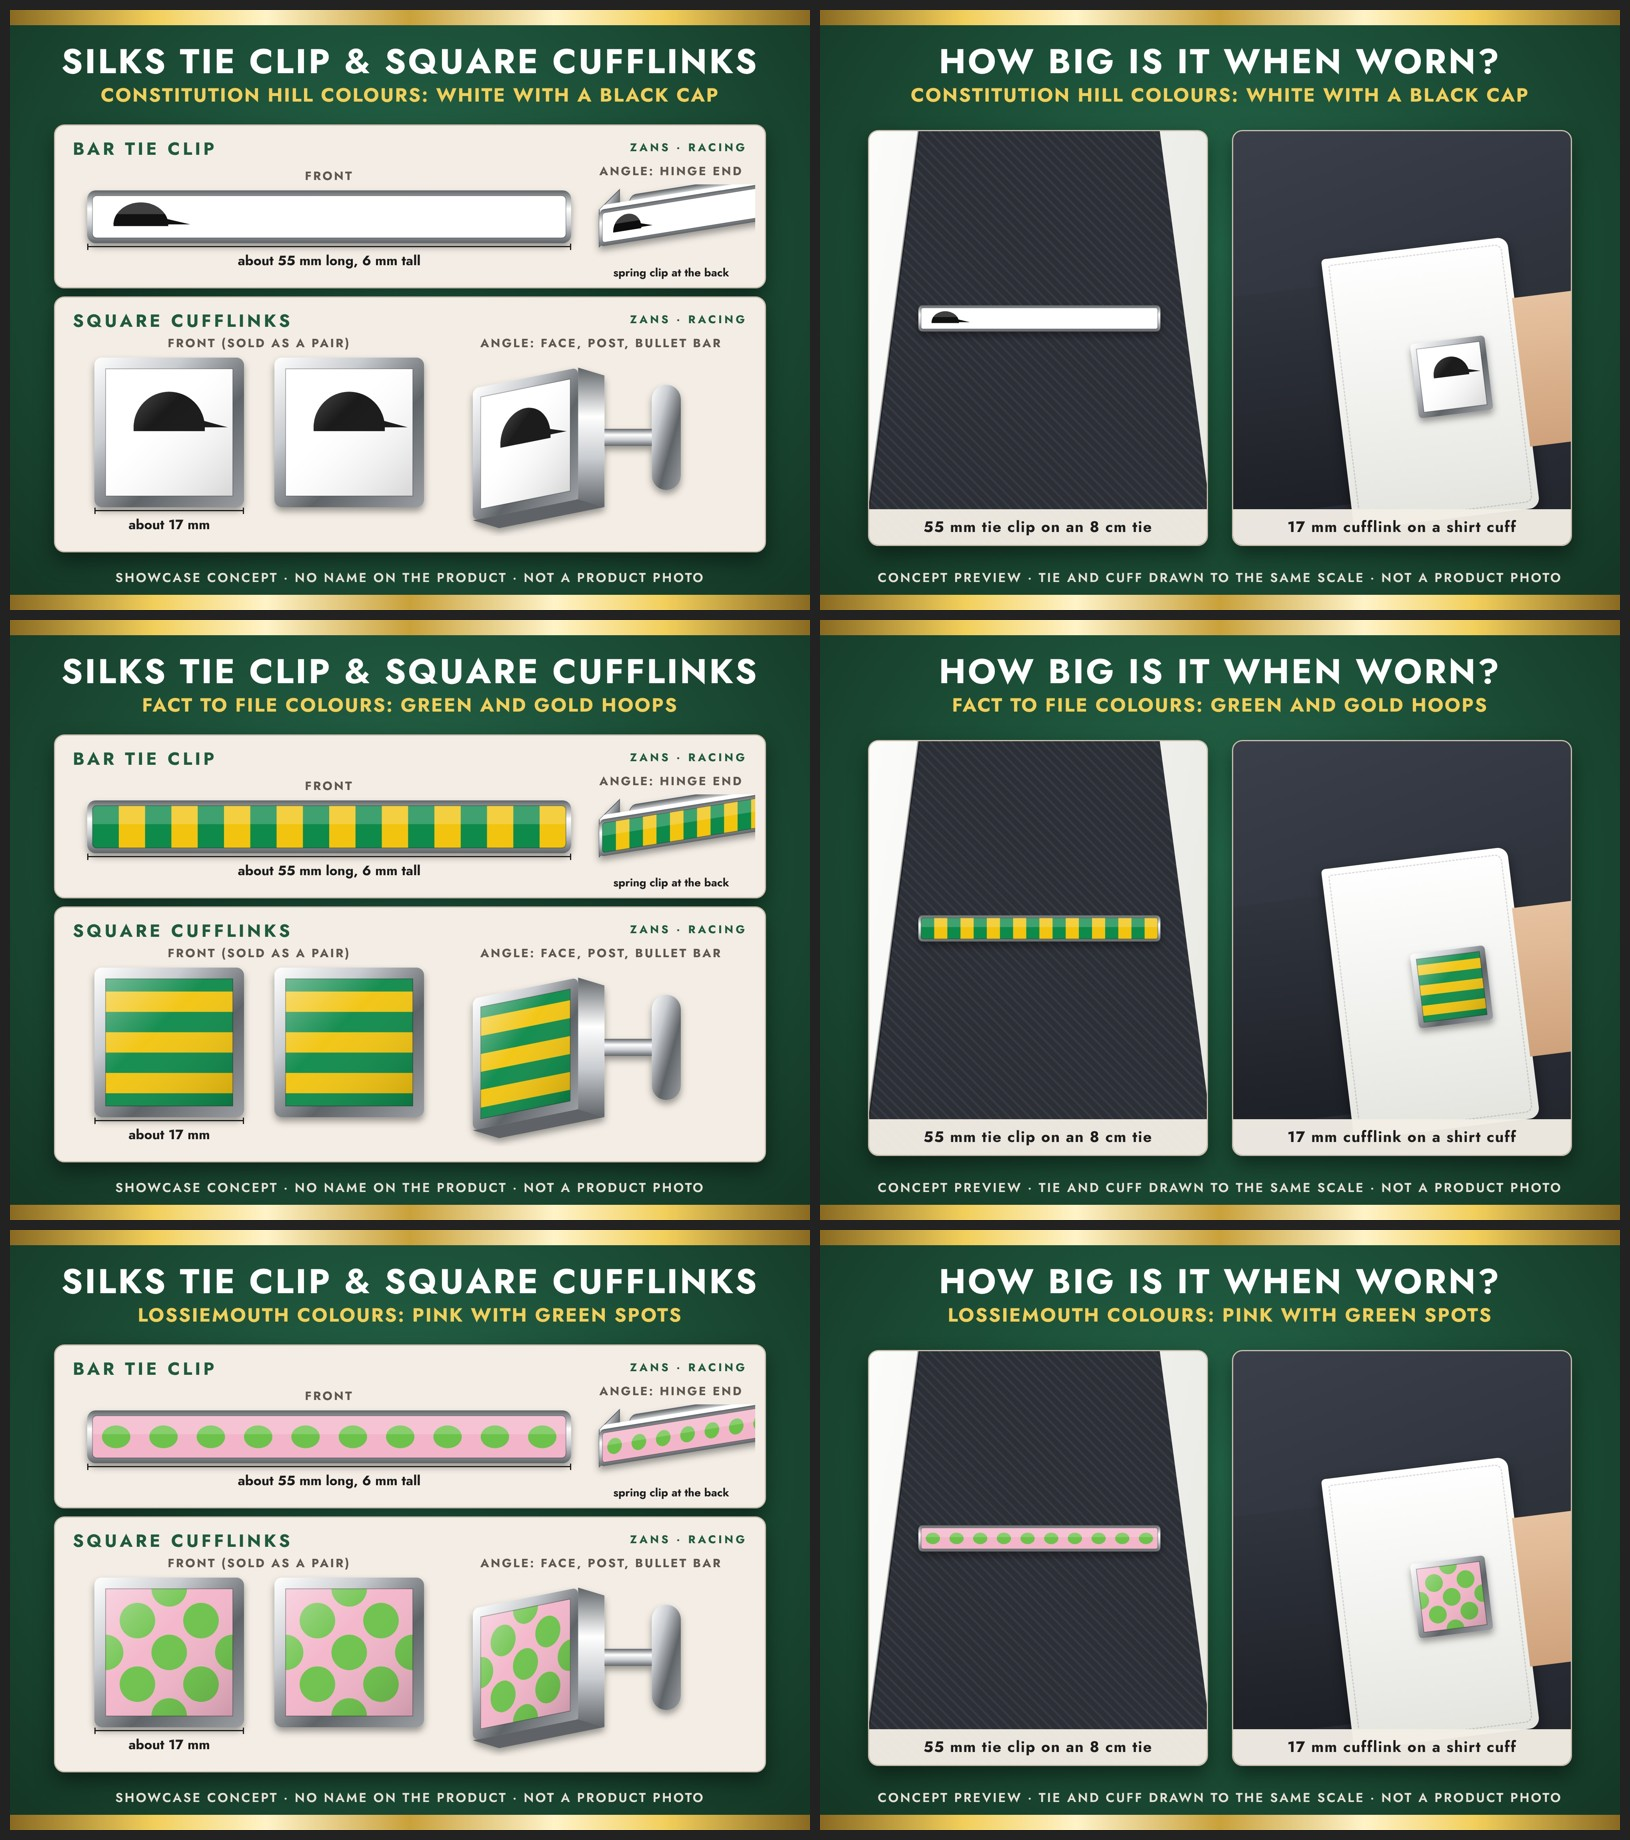
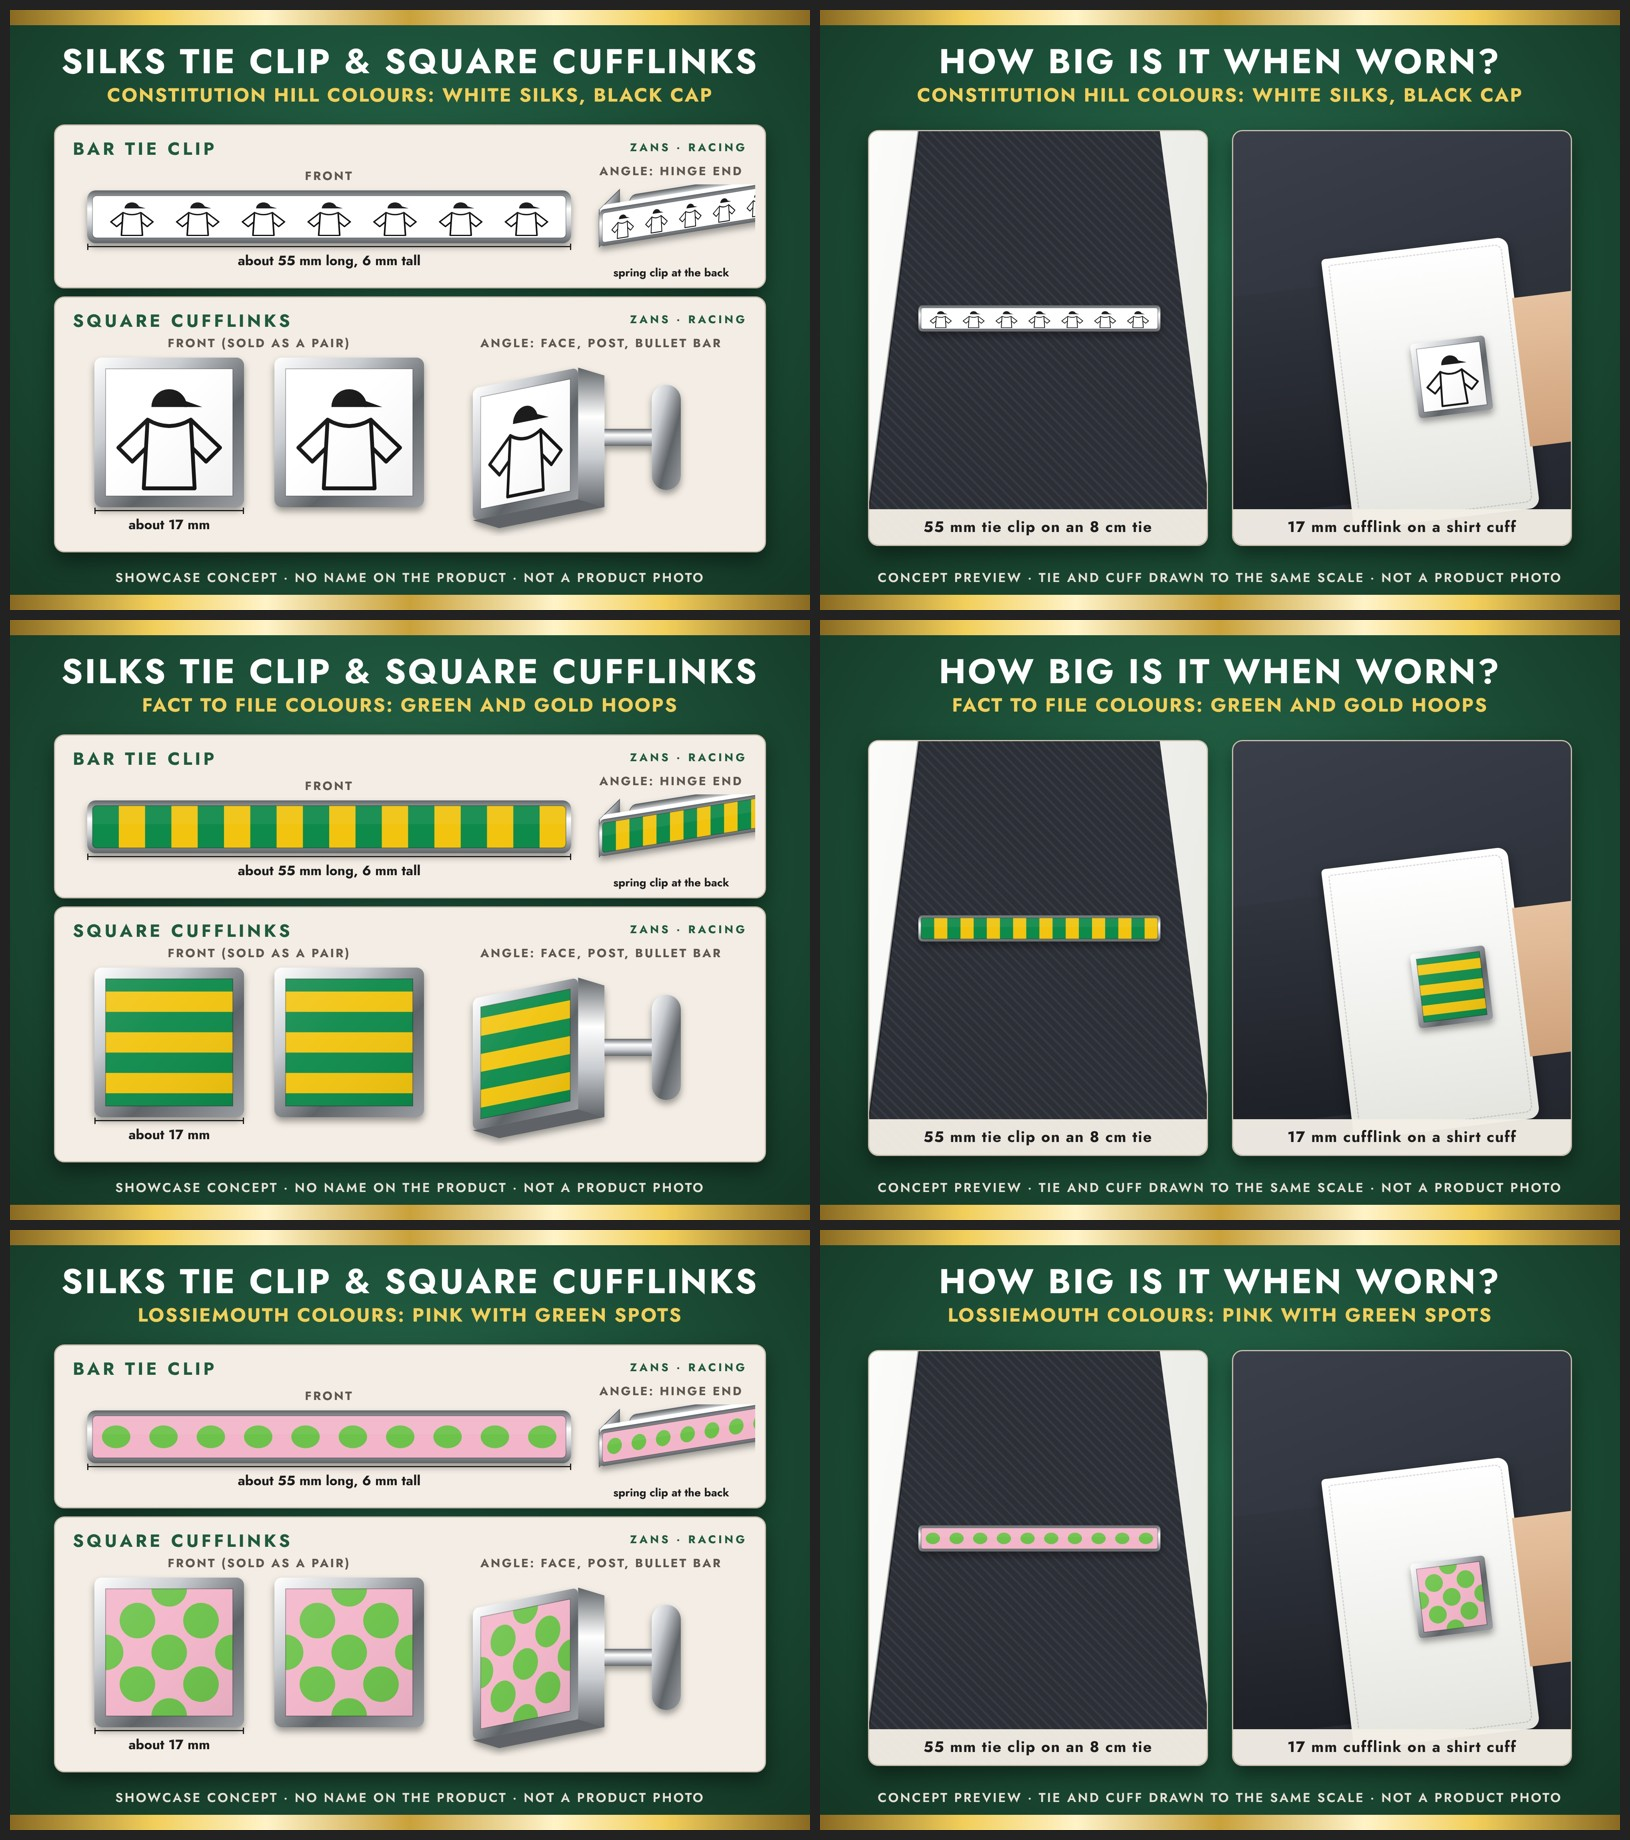
Named-horse tie clips and cufflinks v4: Constitution Hill jersey-and-cap motif, flatter gloss, sources
Claude-Session: https://claude.ai/code/session_012o9aG5DgvmXWZHsMc4KE4d

diff --git a/batch/2026-11-25/tie-pins-cufflinks/build_named.js b/batch/2026-11-25/tie-pins-cufflinks/build_named.js
@@ -12,7 +12,7 @@ const sq = { // square insert, 100 x 100
   diamonds: (a, b) => `<rect width="100" height="100" fill="${a}"/>` + [0, 1, 2, 3, 4].flatMap(r => [0, 1, 2, 3, 4].map(c => [c * 25 + (r % 2 ? 12.5 : 0), r * 25])).map(([x, y]) => `<path d="M${x} ${y - 11} L${x + 9} ${y} L${x} ${y + 11} L${x - 9} ${y} Z" fill="${b}"/>`).join(''),
   quartered: (a, b) => `<rect width="100" height="100" fill="${a}"/><rect width="50" height="50" fill="${b}"/><rect x="50" y="50" width="50" height="50" fill="${b}"/>`,
   bigspots: (a, b) => `<rect width="100" height="100" fill="${a}"/>` + [[25, 25], [75, 25], [50, 50], [25, 75], [75, 75], [0, 50], [100, 50], [50, 0], [50, 100]].map(([x, y]) => `<circle cx="${x}" cy="${y}" r="14" fill="${b}"/>`).join(''),
-  cap: (a, b) => `<rect width="100" height="100" fill="${a}"/><path d="M22 46 A28 28 0 0 1 78 46 Z" fill="${b}"/><path d="M74 40 L96 46 L74 46 Z" fill="${b}"/><rect x="22" y="44" width="56" height="5" fill="${b}"/>`,
+  cap: (a, b) => `<rect width="100" height="100" fill="${a}"/><g fill="#fff" stroke="#111" stroke-width="3" stroke-linejoin="round"><path d="M33 40 L10 62 L21 73 L36 58 Z"/><path d="M67 40 L90 62 L79 73 L64 58 Z"/><path d="M33 40 Q50 50 67 40 L70 94 L30 94 Z"/></g><path d="M36 30 A14 14 0 0 1 64 30 Z" fill="#111"/><path d="M62 25 L76 30 L62 30 Z" fill="#111"/>`,
   blank: () => `<rect width="100" height="100" fill="#f4f4f2"/>` };
 const bar = { // long bar face, 900 x 100: the same silks idea scaled to read on a slim bar
   stripes: (a, b) => `<rect width="900" height="100" fill="${a}"/><rect y="20" width="900" height="20" fill="${b}"/><rect y="60" width="900" height="20" fill="${b}"/>`,
@@ -22,12 +22,12 @@ const bar = { // long bar face, 900 x 100: the same silks idea scaled to read on
   diamonds: (a, b) => `<rect width="900" height="100" fill="${a}"/>` + [...Array(13)].map((_, i) => `<path d="M${i * 75} 12 L${i * 75 + 28} 50 L${i * 75} 88 L${i * 75 - 28} 50 Z" fill="${b}"/>`).join(''),
   quartered: (a, b) => `<rect width="900" height="100" fill="${a}"/><rect width="450" height="50" fill="${b}"/><rect x="450" y="50" width="450" height="50" fill="${b}"/>`,
   bigspots: (a, b) => `<rect width="900" height="100" fill="${a}"/>` + [...Array(10)].map((_, i) => `<circle cx="${45 + i * 90}" cy="50" r="27" fill="${b}"/>`).join(''),
-  cap: (a, b) => `<rect width="900" height="100" fill="${a}"/><path d="M40 68 A52 52 0 0 1 144 68 Z" fill="${b}"/><path d="M138 54 L186 68 L138 68 Z" fill="${b}"/><rect x="40" y="64" width="104" height="8" fill="${b}"/>`,
+  cap: (a, b) => `<rect width="900" height="100" fill="${a}"/>` + [...Array(7)].map((_, i) => `<g transform="translate(${25 + i * 125} 0)"><g fill="#fff" stroke="#111" stroke-width="3" stroke-linejoin="round"><path d="M33 40 L10 62 L21 73 L36 58 Z"/><path d="M67 40 L90 62 L79 73 L64 58 Z"/><path d="M33 40 Q50 50 67 40 L70 94 L30 94 Z"/></g><path d="M36 30 A14 14 0 0 1 64 30 Z" fill="#111"/><path d="M62 25 L76 30 L62 30 Z" fill="#111"/></g>`).join(''),
   blank: () => `<rect width="900" height="100" fill="#f4f4f2"/>` };
-const D = [['L', 'bigspots', 'Lossiemouth colours: pink with green spots', '#F3B5C9', '#6CC24A'], ['F', 'hoops', 'Fact To File colours: green and gold hoops', '#0E8A4B', '#F2C40F'], ['C', 'cap', 'Constitution Hill colours: white with a black cap', '#FFFFFF', '#111111']];
+const D = [['L', 'bigspots', 'Lossiemouth colours: pink with green spots', '#F3B5C9', '#6CC24A'], ['F', 'hoops', 'Fact To File colours: green and gold hoops', '#0E8A4B', '#F2C40F'], ['C', 'cap', 'Constitution Hill colours: white silks, black cap', '#FFFFFF', '#111111']];
 let uid = 0; const defs = id => `<linearGradient id="${id}m" x1="0" y1="0" x2="1" y2="1"><stop offset="0" stop-color="${CH[2]}"/><stop offset=".3" stop-color="${CH[1]}"/><stop offset=".62" stop-color="${CH[0]}"/><stop offset="1" stop-color="${CH[3]}"/></linearGradient>
 <linearGradient id="${id}v" x1="0" y1="0" x2="0" y2="1"><stop offset="0" stop-color="${CH[0]}"/><stop offset=".35" stop-color="${CH[2]}"/><stop offset=".65" stop-color="${CH[1]}"/><stop offset="1" stop-color="${CH[0]}"/></linearGradient>
-<linearGradient id="${id}g" x1="0" y1="0" x2="1" y2="1"><stop offset="0" stop-color="#fff" stop-opacity=".42"/><stop offset=".4" stop-color="#fff" stop-opacity=".04"/><stop offset="1" stop-color="#000" stop-opacity=".16"/></linearGradient>
+<linearGradient id="${id}g" x1="0" y1="0" x2="1" y2="1"><stop offset="0" stop-color="#fff" stop-opacity=".12"/><stop offset=".4" stop-color="#fff" stop-opacity=".04"/><stop offset="1" stop-color="#000" stop-opacity=".06"/></linearGradient>
 <filter id="${id}s" x="-30%" y="-30%" width="160%" height="170%"><feDropShadow dx="0" dy="10" stdDeviation="9" flood-opacity=".38"/></filter>`;
 // square cufflink, front-on. s = side in px
 function cuffFront(s, kind, a, b) { const id = 'q' + (uid++), r = s * .075;
@@ -47,7 +47,7 @@ function cuff34(s, kind, a, b) { const id = 'q' + (uid++), r = s * .075, kx = .8
 function clipFront(L, H, kind, a, b) { const id = 'b' + (uid++), r = H * .1;
   return `<svg width="${L + 40}" height="${H + 50}" viewBox="-20 -15 ${L + 40} ${H + 50}"><defs>${defs(id)}<clipPath id="${id}c"><rect x="${r}" y="${r}" width="${L - 2 * r}" height="${H - 2 * r}" rx="${H * .08}"/></clipPath></defs>
 <rect width="${L}" height="${H}" rx="${H * .16}" fill="url(#${id}v)" filter="url(#${id}s)"/><g clip-path="url(#${id}c)"><g transform="translate(${r} ${r}) scale(${(L - 2 * r) / 900} ${(H - 2 * r) / 100})">${bar[kind](a, b)}</g>
-<rect width="${L}" height="${H * .45}" fill="#fff" opacity=".2"/></g>
+<rect width="${L}" height="${H * .45}" fill="#fff" opacity=".06"/></g>
 <rect x="${r}" y="${r}" width="${L - 2 * r}" height="${H - 2 * r}" rx="${H * .08}" fill="none" stroke="rgba(0,0,0,.3)" stroke-width="2"/></svg>`; }
 // bar tie clip at a 3/4 angle with the back arm and the spring hinge at the left end
 function clip34(L, H, kind, a, b) { const id = 'b' + (uid++), r = H * .1, kx = .86, sk = .16, w = L * kx, rise = w * sk, off = H * .55;
@@ -55,7 +55,7 @@ function clip34(L, H, kind, a, b) { const id = 'b' + (uid++), r = H * .1, kx = .
 <g filter="url(#${id}s)"><g transform="translate(${off} ${-off}) matrix(${kx} ${-kx * sk} 0 1 0 0)"><rect x="${L * .04}" y="${H * .2}" width="${L * .9}" height="${H * .6}" rx="${H * .2}" fill="url(#${id}v)" stroke="${CH[0]}" stroke-width="2"/></g>
 <path d="M0 0 L${off} ${-off} L${off} ${H - off} L0 ${H} Z" fill="url(#${id}m)" stroke="${CH[0]}" stroke-width="2"/><ellipse cx="${off * .5}" cy="${H * .5 - off * .5}" rx="${H * .2}" ry="${H * .26}" fill="${CH[0]}"/><ellipse cx="${off * .5}" cy="${H * .5 - off * .5}" rx="${H * .09}" ry="${H * .12}" fill="${CH[2]}"/>
 <path d="M0 0 L${w} ${-rise} L${w + off * .25} ${-rise - off * .25} L${off * .25} ${-off * .25} Z" fill="${CH[2]}"/>
-<g transform="matrix(${kx} ${-kx * sk} 0 1 0 0)"><rect width="${L}" height="${H}" rx="${H * .16}" fill="url(#${id}v)"/><g clip-path="url(#${id}c)"><g transform="translate(${r} ${r}) scale(${(L - 2 * r) / 900} ${(H - 2 * r) / 100})">${bar[kind](a, b)}</g><rect width="${L}" height="${H * .45}" fill="#fff" opacity=".2"/></g>
+<g transform="matrix(${kx} ${-kx * sk} 0 1 0 0)"><rect width="${L}" height="${H}" rx="${H * .16}" fill="url(#${id}v)"/><g clip-path="url(#${id}c)"><g transform="translate(${r} ${r}) scale(${(L - 2 * r) / 900} ${(H - 2 * r) / 100})">${bar[kind](a, b)}</g><rect width="${L}" height="${H * .45}" fill="#fff" opacity=".06"/></g>
 <rect x="${r}" y="${r}" width="${L - 2 * r}" height="${H - 2 * r}" rx="${H * .08}" fill="none" stroke="rgba(0,0,0,.3)" stroke-width="2"/></g></g></svg>`; }
 const head = (t, sub) => `<html><head><style>${font('Jost', 600, 'jost-600.woff2')}${font('Jost', 700, 'jost-700.woff2')}*{box-sizing:border-box;margin:0}
 body{width:2000px;height:1500px;position:relative;overflow:hidden;font-family:Jost;background:radial-gradient(ellipse at 50% 40%,#24684a,#143524)}
@@ -90,4 +90,4 @@ function worn(d) { const [, kind, , a, b] = d, S = 11;
 <div style="position:absolute;left:${300 + 68 * S / 1.6 - 6}px;top:${14 * S}px;width:260px;height:${34 * S}px;background:linear-gradient(180deg,#e7c2a0,#cfa27c);border-radius:0 90px 90px 0"></div></div><div class="cap">17 mm cufflink on a shirt cuff</div></div>` + foot('CONCEPT PREVIEW · TIE AND CUFF DRAWN TO THE SAME SCALE · NOT A PRODUCT PHOTO'); }
 (async () => { const b = await chromium.launch(); for (const d of D) { const slug = d[2].toLowerCase().replace(/ colours:.*/, '-colours').replace(/[^a-z]+/g, '-').replace(/-$/, '');
   for (const [fn, tag] of [[page, 'CONCEPT'], [worn, 'WORN-SCALE']]) { const p = await b.newPage({ viewport: { width: 2000, height: 1500 } }); await p.setContent(fn(d)); await p.waitForTimeout(250);
-    const out = `ZANS-silks-bar-tie-clip-square-cufflinks-${d[0]}-${slug}-${tag}-SHOWCASE-DRAFT-v3.jpg`; await p.screenshot({ path: path.join(__dirname, out), type: 'jpeg', quality: 93 }); await p.close(); console.log(out); } } await b.close(); })();
+    const out = `ZANS-silks-bar-tie-clip-square-cufflinks-${d[0]}-${slug}-${tag}-SHOWCASE-DRAFT-v4.jpg`; await p.screenshot({ path: path.join(__dirname, out), type: 'jpeg', quality: 93 }); await p.close(); console.log(out); } } await b.close(); })();

diff --git a/batch/2026-11-25/tie-pins-cufflinks/REVIEW-REQUEST-tie-pins-cufflinks.md b/batch/2026-11-25/tie-pins-cufflinks/REVIEW-REQUEST-tie-pins-cufflinks.md
@@ -48,3 +48,13 @@ Rule flags for Alex, not for me to decide:
 1. Rulebook: a famous horse's colours may be shown on SOCIAL showcase items only, never listed or offered as a product. These three are fine as showcase concepts; selling them as named-horse cufflinks is not allowed by the current rule.
 2. All three horses must be alive and well on the day anything is posted (2 sources).
 3. Not sent to Alex yet: waiting for your check first, as you asked.
+
+## REVIEW REQUEST - named-horse set v4 (25 Nov 2026, 09:35 UTC) - TASK 457152f
+- [x] 1. Constitution Hill: the face now carries his full silks motif, an outlined white jersey with both sleeves and a black cap above it (one motif on each cufflink, seven along the bar).
+- [x] 2. Lossiemouth: gloss cut right back on this set (white highlight .42 -> .12, shade .16 -> .06, bar highlight .2 -> .06), so the spots print as flat #6CC24A on #F3B5C9, matching the big-spots master. Hex unchanged.
+- [x] 3. Sources opened by web search this morning (25 Nov 2026):
+  - Constitution Hill, white with a black cap: (a) Sporting Life feature on the owner's colours ("white with a black cap", a change from his earlier black and white quarters), sportinglife.com/racing/news/...constitution-hill/197580; (b) Racing Post piece on the horse's colours ("his familiar white silks"), racingpost.com/news/raceday-intel/how-constitution-hills-colours-could-still-be-carried-to-victory... Plus Alex's own photo of 21 Nov (black cap).
+  - Lossiemouth, pink with green spots: (a) The Jockey Club "jockey silks and colours" page lists these colours as pale pink with bright green spots; (b) a second published list of famous colours gives "baby pink with bright green spots"; her horse profile pages list the same owner. Honest limit: neither result is a dated photo or racecard of Lossiemouth herself in the silks; the link is owner -> colours. Sleeves and cap not described in what I could open.
+  - Search snippets only: I could not open the pages themselves from this session, and the snippets carry no publication dates. If the gate needs dated pages, please open the two links per horse from your side.
+- Files: 6 x `...-SHOWCASE-DRAFT-v4.jpg` + `NAMED-HORSE-COLOURS-tie-clips-cufflinks-CONTACT-SHEET.jpg` (rebuilt). v3 named files removed. Fact To File unchanged apart from the flatter gloss.
+- These source names are working notes only; no owner or media name goes on any image or post.

diff --git a/STATUS-claude-code.md b/STATUS-claude-code.md
@@ -150,3 +150,6 @@ I have changed NOTHING in Metricool. Options for Alex (his yes needed, in my cha
 
 ## REVIEW REQUEST - SUPPLIER-SHEET-PROPOSED.md (25 Nov 2026, 09:15 UTC)
 `batch/2026-11-25/tie-pins-cufflinks/SUPPLIER-SHEET-PROPOSED.md`. One page: spec, four routes, what it tells us, next step. From one web search only; supplier sites are blocked here, so Treatpod's price and sizes are UNKNOWN and no UK print-on-demand bar tie clip was found. Nothing ordered. Named-horse sheet sent to Alex after your approval (448e39e).
+
+## REVIEW REQUEST - named-horse tie clips and cufflinks v4 (25 Nov 2026, 09:35 UTC)
+Task 457152f done; ticked list and sources at the foot of `batch/2026-11-25/tie-pins-cufflinks/REVIEW-REQUEST-tie-pins-cufflinks.md`. Sources are search snippets (pages not openable here, no dates shown): please confirm dates from your side. Held from Alex until your check.
